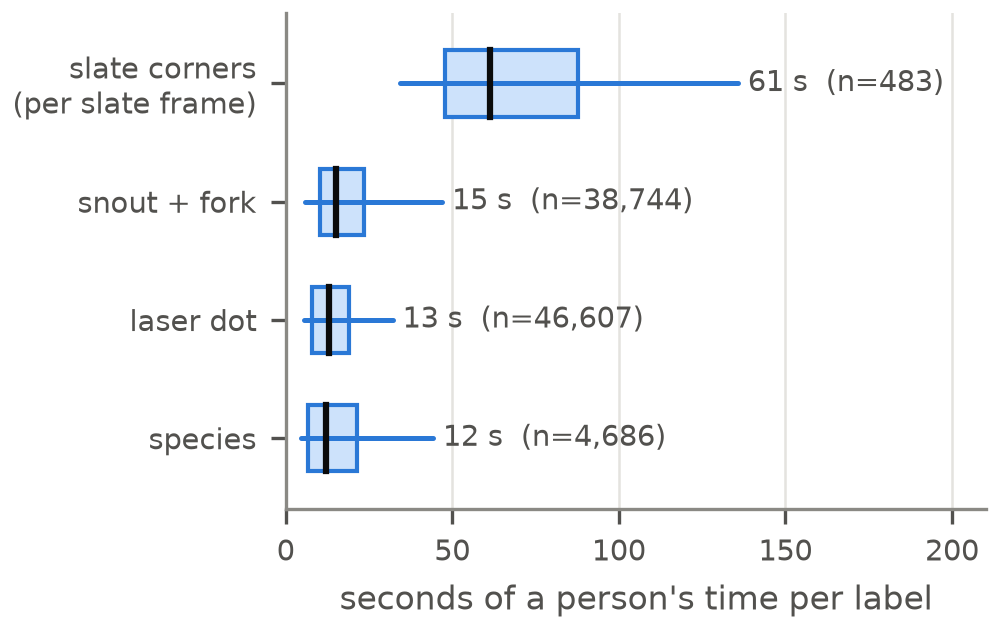
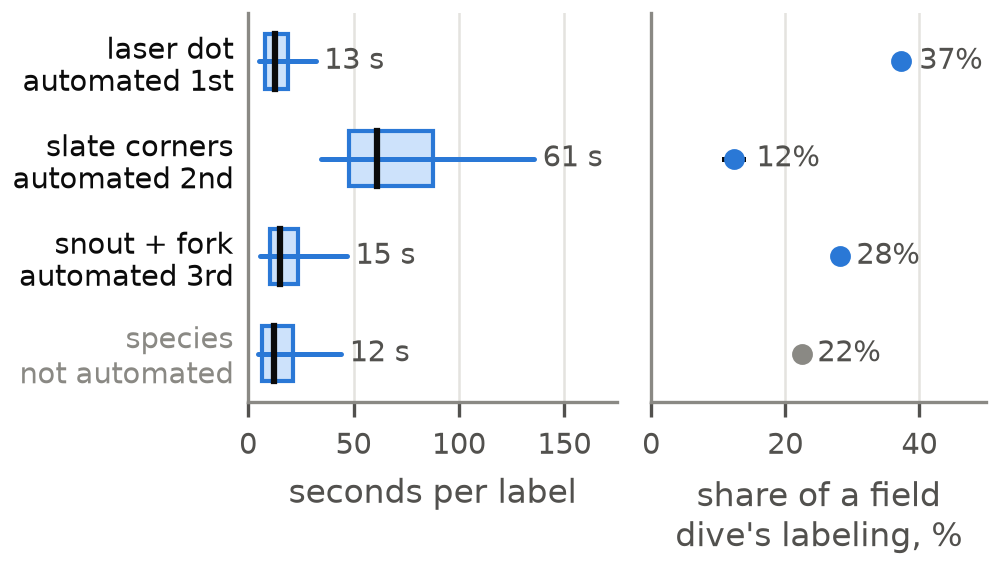
fig8: seconds per label beside each task's share of a field dive's labeling time, in automation order
Physical-dive values from labelling_time_claims.py --physical (stored results reproduce); no new analysis.

diff --git a/figures/make_figures.py b/figures/make_figures.py
@@ -8,7 +8,8 @@
   fig5_reef_lengths    fully automatic vs manual length on real reef fish
   fig6_coverage        frames covered vs human-rejected frames measured, as the SAM cutoff moves
   fig7_species         confusion matrix of the trained BioCLIP species head
-  fig8_labeling_time   person-seconds per label by type, drawn from scratch (no pre-filled seed)
+  fig8_labeling_time   (a) seconds per label by task, drawn from scratch; (b) each task's share of a field dive's
+                       labeling time, by physical dive; tasks in automation order
   fig9_slate_detector  slate-frame detector: precision-recall; per-dive recall
   fig10_size_measures  apparent-size measures for size-constancy calibration, scored against tape
   fig11_laser_recall   laser detector: found / wrong spot / missed by colour and setting
@@ -51,11 +52,12 @@ plt.rcParams.update({
 })
 
 
-def save(fig, name, exact=False):
+def save(fig, name, exact=False, bare=False):
     # no timestamps in the files, so a rebuild from the same data is byte-identical;
-    # exact=True keeps the figure's own size (laid out inside it) instead of the tight bounding box
+    # exact=True keeps the figure's own size (laid out inside it) instead of the tight bounding box;
+    # bare=True also drops the PDF's Creator and Producer
     with plt.rc_context({"savefig.bbox": "standard"} if exact else {}):
-        fig.savefig(OUT / f"{name}.pdf", metadata={"CreationDate": None, "ModDate": None})
+        fig.savefig(OUT / f"{name}.pdf", metadata={"CreationDate": None, "ModDate": None} | ({"Creator": None, "Producer": None} if bare else {}))
         fig.savefig(OUT / f"{name}.png", metadata={"Software": None})
     plt.close(fig); print("wrote", name)
 
@@ -297,29 +299,46 @@ def fig7_species():
 
 # ---------------------------------------------------------------- fig 8
 def fig8_labeling_time():
-    """Person-time per label, drawn from scratch: no prediction or earlier label as a seed.
-    Label Studio lead_time per annotation (data/db_extracts/lead_times_by_dive.psv, sql/extract_lead_times_by_dive.sql),
-    annotations without a parent_prediction / parent_annotation; no cap (idle tabs sit in the tail, beyond p90)."""
+    """Where automation saves the most person-time, each physical dive counted once.
+    (a) seconds per label, annotations drawn without a pre-filled seed (no parent_prediction / parent_annotation):
+        median, interquartile box, 10th-90th percentile whisker; Label Studio lead_time, no cap
+        (data/db_extracts/lead_times_by_dive.psv, sql/extract_lead_times_by_dive.sql)
+    (b) each task's median share of a field dive's estimated labeling time, 95% interval resampling physical dives
+        (analysis/codesign/results/labelling_time_claims_physical.csv, claim 4, from labelling_time_claims.py --physical
+        over dive_time.py --physical). The four medians are taken separately, so they need not sum to 100%.
+    Tasks in the order the paper automates them; species is not automated in the paper."""
     d = pd.read_csv(REPO / "data/db_extracts/lead_times_by_dive.psv", sep="|", header=None,
                     names=["kind", "dive_id", "image_id", "lead_time_s", "seeded", "created_at"])
     d = d[(d.seeded == "f") & d.lead_time_s.notna()]   # a few annotations carry no lead_time
-    names = {"laser": "laser dot", "headtail": "snout + fork", "species": "species", "slate": "slate corners\n(per slate frame)"}
-    stats = []
-    for k, g in d.groupby("kind"):
-        v = g.lead_time_s.to_numpy()
-        stats.append(dict(k=k, n=len(v), p10=np.percentile(v, 10), q1=np.percentile(v, 25), med=np.median(v),
-                          q3=np.percentile(v, 75), p90=np.percentile(v, 90)))
-    S = pd.DataFrame(stats).sort_values("med")
-    fig, ax = plt.subplots(figsize=(ONE, 2.1), layout="constrained")   # drawn at final size: one ACM column
-    for i, r in enumerate(S.itertuples()):
-        ax.plot([r.p10, r.p90], [i, i], color=BLUE, lw=1.2, solid_capstyle="round")
-        ax.add_patch(plt.Rectangle((r.q1, i - 0.28), r.q3 - r.q1, 0.56, fc="#cde2fb", ec=BLUE, lw=1))
-        ax.plot([r.med, r.med], [i - 0.28, i + 0.28], color=INK, lw=1.5)
-        ax.text(r.p90 + 3, i, f"{r.med:.0f} s  (n={r.n:,})", va="center", fontsize=7, color=INK2)
-    ax.set_yticks(range(len(S)), [names[k] for k in S.k]); ax.set_ylim(-0.6, len(S) - 0.4)
-    ax.grid(axis="y", visible=False); ax.set_xlim(0, S.p90.max() * 1.55)
-    ax.set_xlabel("seconds of a person's time per label")
-    save(fig, "fig8_labeling_time", exact=True)
+    C = pd.read_csv(REPO / "analysis/codesign/results/labelling_time_claims_physical.csv").set_index("quantity")
+    tasks = [("laser", "laser dot", "laser", "automated 1st"), ("slate", "slate corners", "slate", "automated 2nd"),
+             ("headtail", "snout + fork", "snout/fork", "automated 3rd"), ("species", "species", "species", "not automated")]
+    fig, (a, b) = plt.subplots(1, 2, figsize=(ONE, 1.9), sharey=True, layout="constrained",
+                               gridspec_kw=dict(width_ratios=[1.1, 1]))
+    for i, (k, name, share, order) in enumerate(tasks):
+        v = d[d.kind == k].lead_time_s.to_numpy()
+        p10, q1, med, q3, p90 = np.percentile(v, [10, 25, 50, 75, 90])
+        assert abs(med - C.loc[f"{TASK_NAMES[k]}: median s per label (scripted extract)", "value"]) < 0.01
+        a.plot([p10, p90], [i, i], color=BLUE, lw=1.2, solid_capstyle="round")
+        a.add_patch(plt.Rectangle((q1, i - 0.28), q3 - q1, 0.56, fc="#cde2fb", ec=BLUE, lw=1))
+        a.plot([med, med], [i - 0.28, i + 0.28], color=INK, lw=1.5)
+        a.text(p90 + 4, i, f"{med:.0f} s", va="center", fontsize=7, color=INK2)
+        r = C.loc[f"{share}: median share of a field dive's estimated labelling time"]
+        b.plot([100 * r.ci_lo, 100 * r.ci_hi], [i, i], color=INK, lw=1.2)
+        b.plot(100 * r.value, i, "o", ms=4, color=BLUE if order != "not automated" else MUTED)
+        b.text(100 * r.ci_hi + 2, i, f"{100 * r.value:.0f}%", va="center", fontsize=7, color=INK2)
+    a.set_yticks(range(len(tasks)), [f"{name}\n{order}" for _, name, _, order in tasks], linespacing=1.1)
+    for t, (*_, order) in zip(a.get_yticklabels(), tasks):
+        t.set_color(INK if order != "not automated" else MUTED)
+    a.set_ylim(len(tasks) - 0.5, -0.5); a.tick_params(axis="y", length=0); b.tick_params(axis="y", length=0)
+    a.set_xlim(0, 175); a.set_xlabel("seconds per label")
+    b.set_xlim(0, 50); b.set_xlabel("share of a field\ndive's labeling, %")
+    for ax in (a, b):
+        ax.grid(axis="y", visible=False)
+    save(fig, "fig8_labeling_time", exact=True, bare=True)
+
+
+TASK_NAMES = {"laser": "laser dot", "headtail": "snout/fork", "species": "species", "slate": "slate corners"}
 
 
 # ---------------------------------------------------------------- fig 9

diff --git a/PAPER.md b/PAPER.md
@@ -157,9 +157,12 @@ history is retained for about 30 days, so the machine times describe the current
 
 ![Figure 8](figures/fig8_labeling_time.png)
 
-*Figure 8. Person-time per label, for annotations drawn from scratch (no prediction or earlier
-label as a seed). A measured frame needs a laser dot, snout + fork and species (about 41 s at
-the medians); each dive also needs its slate frames' corners (61 s per frame).*
+*Figure 8. Where automation saves the most person-time, tasks in the order this paper automates
+them. (a) Seconds per label for annotations drawn from scratch (no prediction or earlier label as a
+seed): median, interquartile box, 10th–90th percentile whisker. (b) Each task's median share of a
+field dive's estimated labeling time, over 215 physical dives (laser dot 37%, 95% CI 36–38;
+snout + fork 28%, 28–29; species 22%, 22–23; slate corners 12%, 11–14; intervals resample physical
+dives; the four medians are taken separately).*
 
 ### 3.2 Human labels are anchored, so "agreement" is acceptance
 
@@ -610,7 +613,7 @@ clustered dives have above-average frame coverage, so this is optimistic.
 | stereo fish outside IMWUT's seven (§6) | `analysis/codesign/stereo_new_fish.py` (commit c28a0184) → `results/stereo_new_fish{,_frames}.csv`; frames ← `data/stereo/` (run 2026-11-01); stereo ← the IMWUT repo's `fish_model_analysis/data/stereo_archive.csv`. Three Conch Reef fish; the automatic pipeline is within 2–4% of the human pipeline on the same frames, both far from stereo (doubtful Black Grouper match; calibration extrapolated to 3–4 m) |
 | calibration trust: refusals, beam moves, borrowing (§7) | `analysis/codesign/calibration_trust.py` (this commit) → `results/calibration_trust.csv`, from `data/db_extracts/dive_calibration_status.psv` (`sql/extract_dive_calibration_status.sql`) and `data/fishsense_services/slate_pose_calibrations.csv`. Corpus beam-move counts, sizes and timing from fishsense-services `beam_moves.py` and the services session record (2026-10-25..30). Size constancy's predicted-vs-real error (0.22) is in the services record only, not reproducible here |
 | slate pose vs human calibrations (§6) | `analysis/codesign/slatepose_vs_human.py` (this commit) → `results/slatepose_vs_human.csv`, from the 2026-10-31 services export and `data/db_extracts/dive_laser_dots.psv` (`sql/extract_dive_laser_dots.sql`): 17 physical dives, median \|difference\| 1.28% (0.62–1.52), 14 within one bar, 17 within two, 14 high |
-| labelling time (Fig 8) | `figures/make_figures.py` `fig8_labeling_time` (commit 893a36a4) ← `data/db_extracts/lead_times_by_dive.psv` (`sql/extract_lead_times_by_dive.sql`); per-task medians with dive intervals: `analysis/codesign/labelling_time_claims.py` (c1b7dedc). Was `data/labeling/lead_times.csv`, which no script produces |
+| labelling time (Fig 8) | `figures/make_figures.py` `fig8_labeling_time` (two panels, 2026-11-05) ← (a) `data/db_extracts/lead_times_by_dive.psv` (`sql/extract_lead_times_by_dive.sql`); (b) `analysis/codesign/results/labelling_time_claims_physical.csv` claim 4 (`labelling_time_claims.py --physical` over `dive_time.py --physical`); per-task medians with dive intervals: `analysis/codesign/labelling_time_claims.py` (c1b7dedc). Was `data/labeling/lead_times.csv`, which no script produces |
 | anchoring, 87% | `p2-results.md` T1/T2; `annotation_analysis/laser_label_pairs.ipynb` |
 | frames per animal, range | `p2-results.md` T7 |
 | failed calibration cues (Table 2) | `p2-tests.md` E1c, E1d, E1e, E1h, E1i, E1k; `calibration_analysis/` |

diff --git a/analysis/codesign/ai_use.md b/analysis/codesign/ai_use.md
@@ -138,7 +138,8 @@ Paths are relative to the repository root unless prefixed with a sibling reposit
 | 2026-11-01 | Stereo fish outside IMWUT's seven: automatic chain run on 24 frames on the local GPU (fishsense-services processor environment built read-only from its lockfile), scored against stereo and against the human pipeline (`stereo_new_fish.py`); laser region moved to `laser_region.py` (stage comparison reproduces unchanged) | analysis | assistant | this commit |
 | 2026-11-01 | §6 stage comparison, human-rejected frames: the 32 frames without SimCC keypoints run through the automatic head/tail chain on the local GPU (`rejected_headtail.py`); configuration 4's outcome per frame added (`stage_comparison.py` → `stage_comparison_v5_outcomes.csv`); claims.yaml and evidence map updated | analysis | assistant | this commit |
 | 2026-11-01 | §7 calibration trust counts: v1 refusals, slate-pose refusals, beam moves, borrowed calibrations by physical dive (`calibration_trust.py`, new extract `dive_calibration_status`); services record traced for the uncertainty check and the beam-move method | analysis | assistant | this commit |
-| 2026-11-01 | Slate pose vs human calibrations on the 2026-10-31 export, by physical dive (`slatepose_vs_human.py`, new extract `dive_laser_dots`) | analysis | assistant | this commit |
+| 2026-11-01 | Slate pose vs human calibrations on the 2026-10-31 export, by physical dive (`slatepose_vs_human.py`, new extract `dive_laser_dots`) | analysis | assistant | 0d78e783 |
+| 2026-11-05 | Figure fig8_labeling_time redrawn as two panels (seconds per label; share of a field dive's labeling time by physical dive), tasks in automation order, existing results only; PDF without Creator/Producer (`figures/make_figures.py`) | figure | assistant | this commit |
 
 Work in sibling repositories that the paper relies on is AI-assisted too, and needs its own entries before submission:
 - slate detector (2026-10-03_slate_detector);
